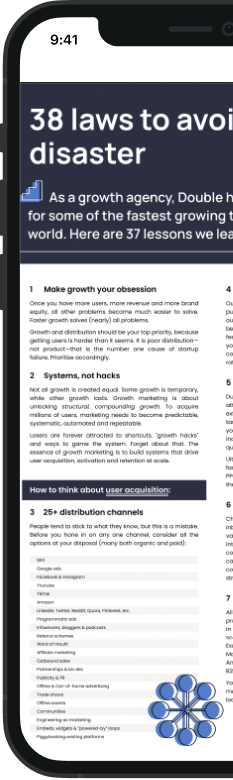
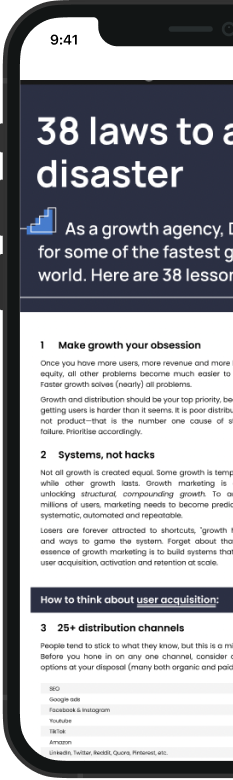
fixes

diff --git a/gatsby-config.ts b/gatsby-config.ts
@@ -40,11 +40,12 @@ const config: GatsbyConfig = {
     "gatsby-plugin-image",
     "gatsby-plugin-react-helmet",
     "gatsby-plugin-htaccess",
+    "gatsby-plugin-sitemap",
     {
       resolve: "gatsby-plugin-sitemap",
       options: {
         exclude: [
-          "/short/signup", "/short/signup/thankyou", "/short/38laws", "/short/38laws/thankyou", "/short/laws-of-growth", "/short/laws-of-growth/thankyou", "/short/freeguide", "/short/freeguide/thankyou", "/short/download", "/short/download/thankyou", "/short/7lessons", "/short/7lessons/thankyou", "/short/subscribe", "/short/subscribe/thankyou", "/short/growth-laws",  "/short/growth-laws/thankyou", "/short/growth", "/short/growth/thankyou", "/short/email-course", "/short/email-course/thankyou", "/short/startup-laws", "/short/startup-laws/thankyou", "/long/guide", "/long/guide/thankyou", "/long/38laws", "/long/38laws/thankyou", "/long/download", "/long/download/thankyou", "/long/freeguide", "/long/freeguide/thankyou", "/long/report", "/long/report/thankyou", "/short/report", "/short/report/thankyou",
+          "/short/signup/", "/short/signup/thankyou", "/short/38laws/", "/short/38laws/thankyou", "/short/laws-of-growth", "/short/laws-of-growth/thankyou", "/short/freeguide", "/short/freeguide/thankyou", "/short/download", "/short/download/thankyou", "/short/7lessons", "/short/7lessons/thankyou", "/short/subscribe", "/short/subscribe/thankyou", "/short/growth-laws",  "/short/growth-laws/thankyou", "/short/growth", "/short/growth/thankyou", "/short/email-course", "/short/email-course/thankyou", "/short/startup-laws", "/short/startup-laws/thankyou", "/long/guide", "/long/guide/thankyou", "/long/38laws", "/long/38laws/thankyou", "/long/download", "/long/download/thankyou", "/long/freeguide", "/long/freeguide/thankyou", "/long/report", "/long/report/thankyou", "/short/report", "/short/report/thankyou",
        ]
       },
     },

diff --git a/src/pages/short/email-course/index.tsx b/src/pages/short/email-course/index.tsx
@@ -13,12 +13,8 @@ const OglviyConcept8 = () => {
       <SEO title="38 laws to avoid startup disaster" />
       <div className={styles.pageHero}>
         <Container>
-          <Row className="align-center justify-content-evenly">
-            <Col
-              xs={{ span: 12, order: 0 }}
-              lg={{ span: 5, order: 1 }}
-              md={{ span: 6, order: 1 }}
-            >
+          <Row className="align-center">
+            <Col xs={{ span: 12, order: 0 }} md={{ span: 6, order: 1 }}>
               <h1 className="mb-3">38 laws to avoid startup disaster</h1>
               <div className="mb-5 d-none d-md-block d-lg-block">
                 What you’ll find inside:
@@ -72,7 +68,7 @@ const OglviyConcept8 = () => {
                 <div className="d-flex justify-content-center">
                   <div className={styles.arrowsDown}></div>
                 </div>
-                <h3 className="text-center">What you’ll find inside: </h3>
+                <h3>What you’ll find inside: </h3>
                 <div className="d-flex align-items-center mb-3">
                   <div className={styles.icon}></div>
                   <div>

diff --git a/src/pages/short/startup-laws/index.tsx b/src/pages/short/startup-laws/index.tsx
@@ -13,12 +13,8 @@ const OglviyConcept8 = () => {
       <SEO title="38 laws to avoid startup disaster" />
       <div className={styles.pageHero}>
         <Container>
-          <Row className="align-center justify-content-between">
-            <Col
-              xs={{ span: 12, order: 0 }}
-              lg={{ span: 5, order: 2 }}
-              md={{ span: 6, order: 1 }}
-            >
+          <Row className="align-center">
+            <Col xs={{ span: 12, order: 0 }} md={{ span: 6, order: 1 }}>
               <h1 className="mb-lg-6 mb-5 mt-4">
                 38 laws to avoid startup disaster
               </h1>
@@ -64,7 +60,7 @@ const OglviyConcept8 = () => {
               src="./lely.png"
               alt="lely logo"
               width={91}
-              objectFit="contain"
+              objectFit="cover"
             />
             <StaticImage
               src="./klooker.png"

diff --git a/src/components/oglviy-inline-form/index.tsx b/src/components/oglviy-inline-form/index.tsx
@@ -73,8 +73,10 @@ export const OgilvyInlineForm: FC<OgilvyFormProps> = ({
             <StaticImage
               src="./people_mobile.png"
               alt="People avatars"
+              quality={50}
               objectFit="contain"
               className="d-flex d-lg-none"
+              width={75}
             />
             <p>15,233+ people loved the guide</p>
           </div>

diff --git a/src/pages/short/subscribe/index.tsx b/src/pages/short/subscribe/index.tsx
@@ -53,7 +53,8 @@ const OglviyConcept4 = () => {
             src="./phone_mobile.png"
             alt="Phone image"
             objectFit="contain"
-            width={130}
+            width={120}
+            quality={50}
           />
         </div>
       </div>

diff --git a/src/pages/short/startup-laws/index.module.scss b/src/pages/short/startup-laws/index.module.scss
@@ -71,11 +71,12 @@
     max-width: 100%;
   }
 
-  img {
-    max-width: 100%;
-  }
-
   & > div {
     margin: 1rem 0.5rem;
+  }
+}
+img {
+  @include media-breakpoint-down(md) {
+    max-width: 100% !important;
   }
 }

diff --git a/src/components/thank-you/index.module.scss b/src/components/thank-you/index.module.scss
@@ -19,3 +19,7 @@ img {
     width: 150px !important;
   }
 }
+
+a {
+  border-radius: 0 !important;
+}
